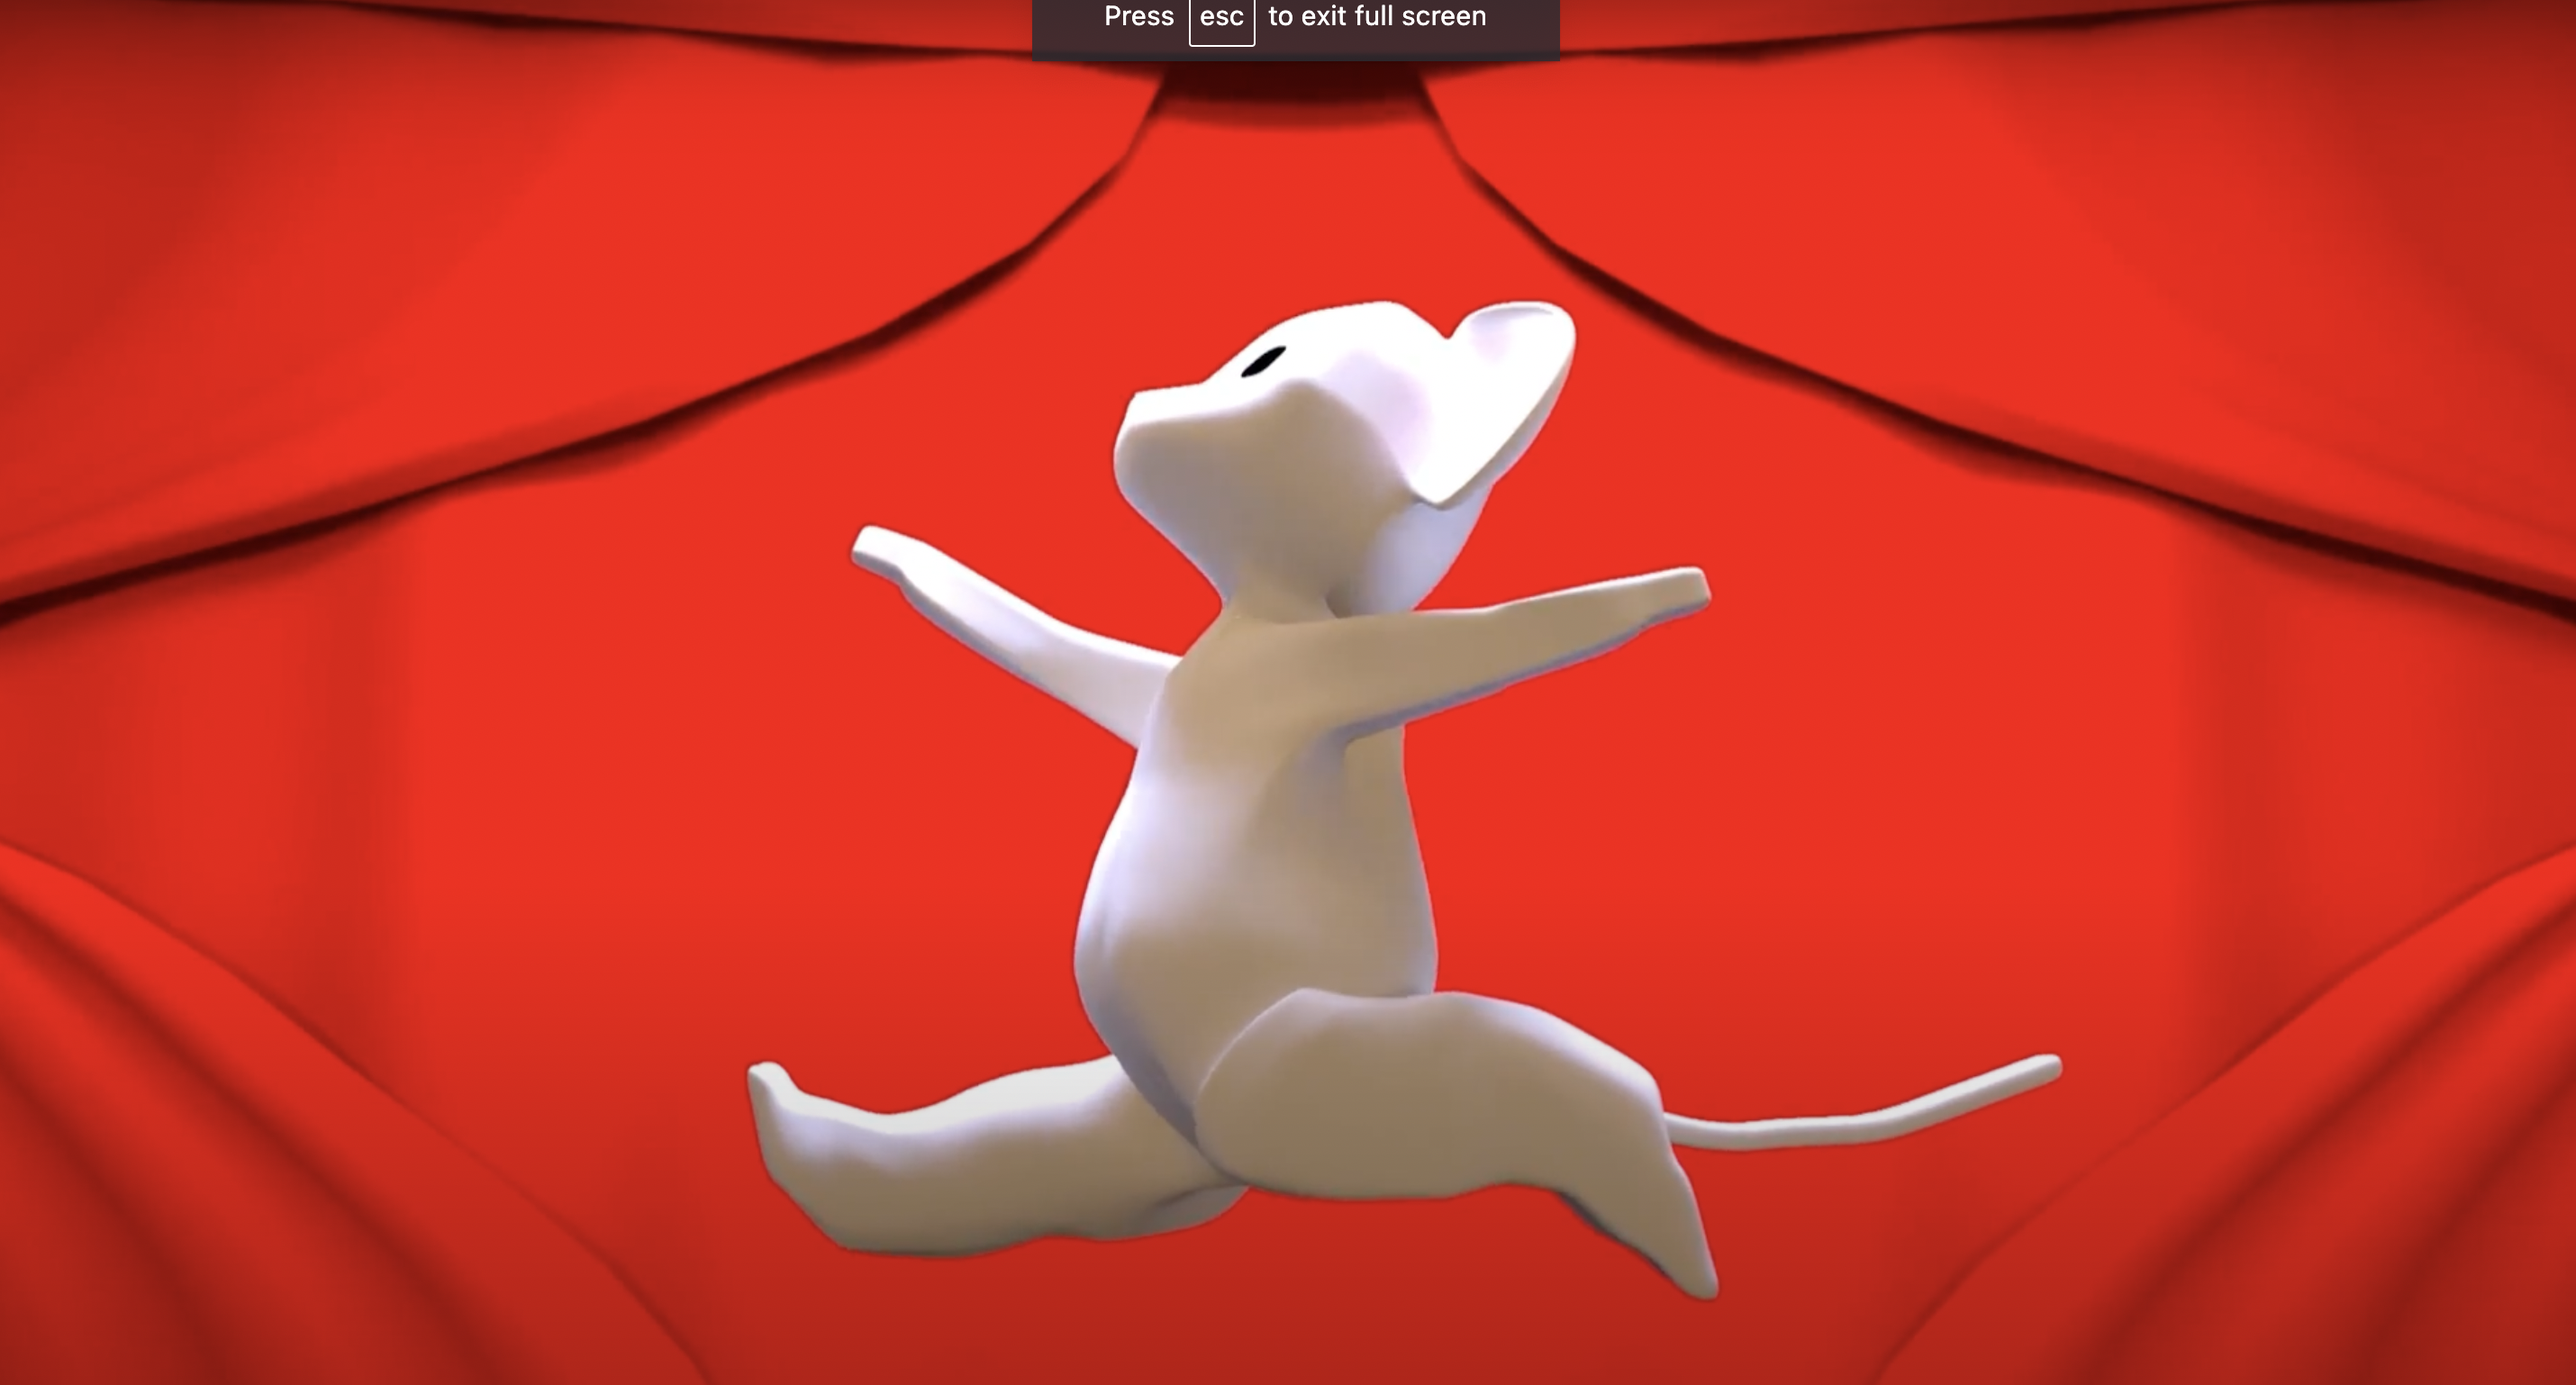
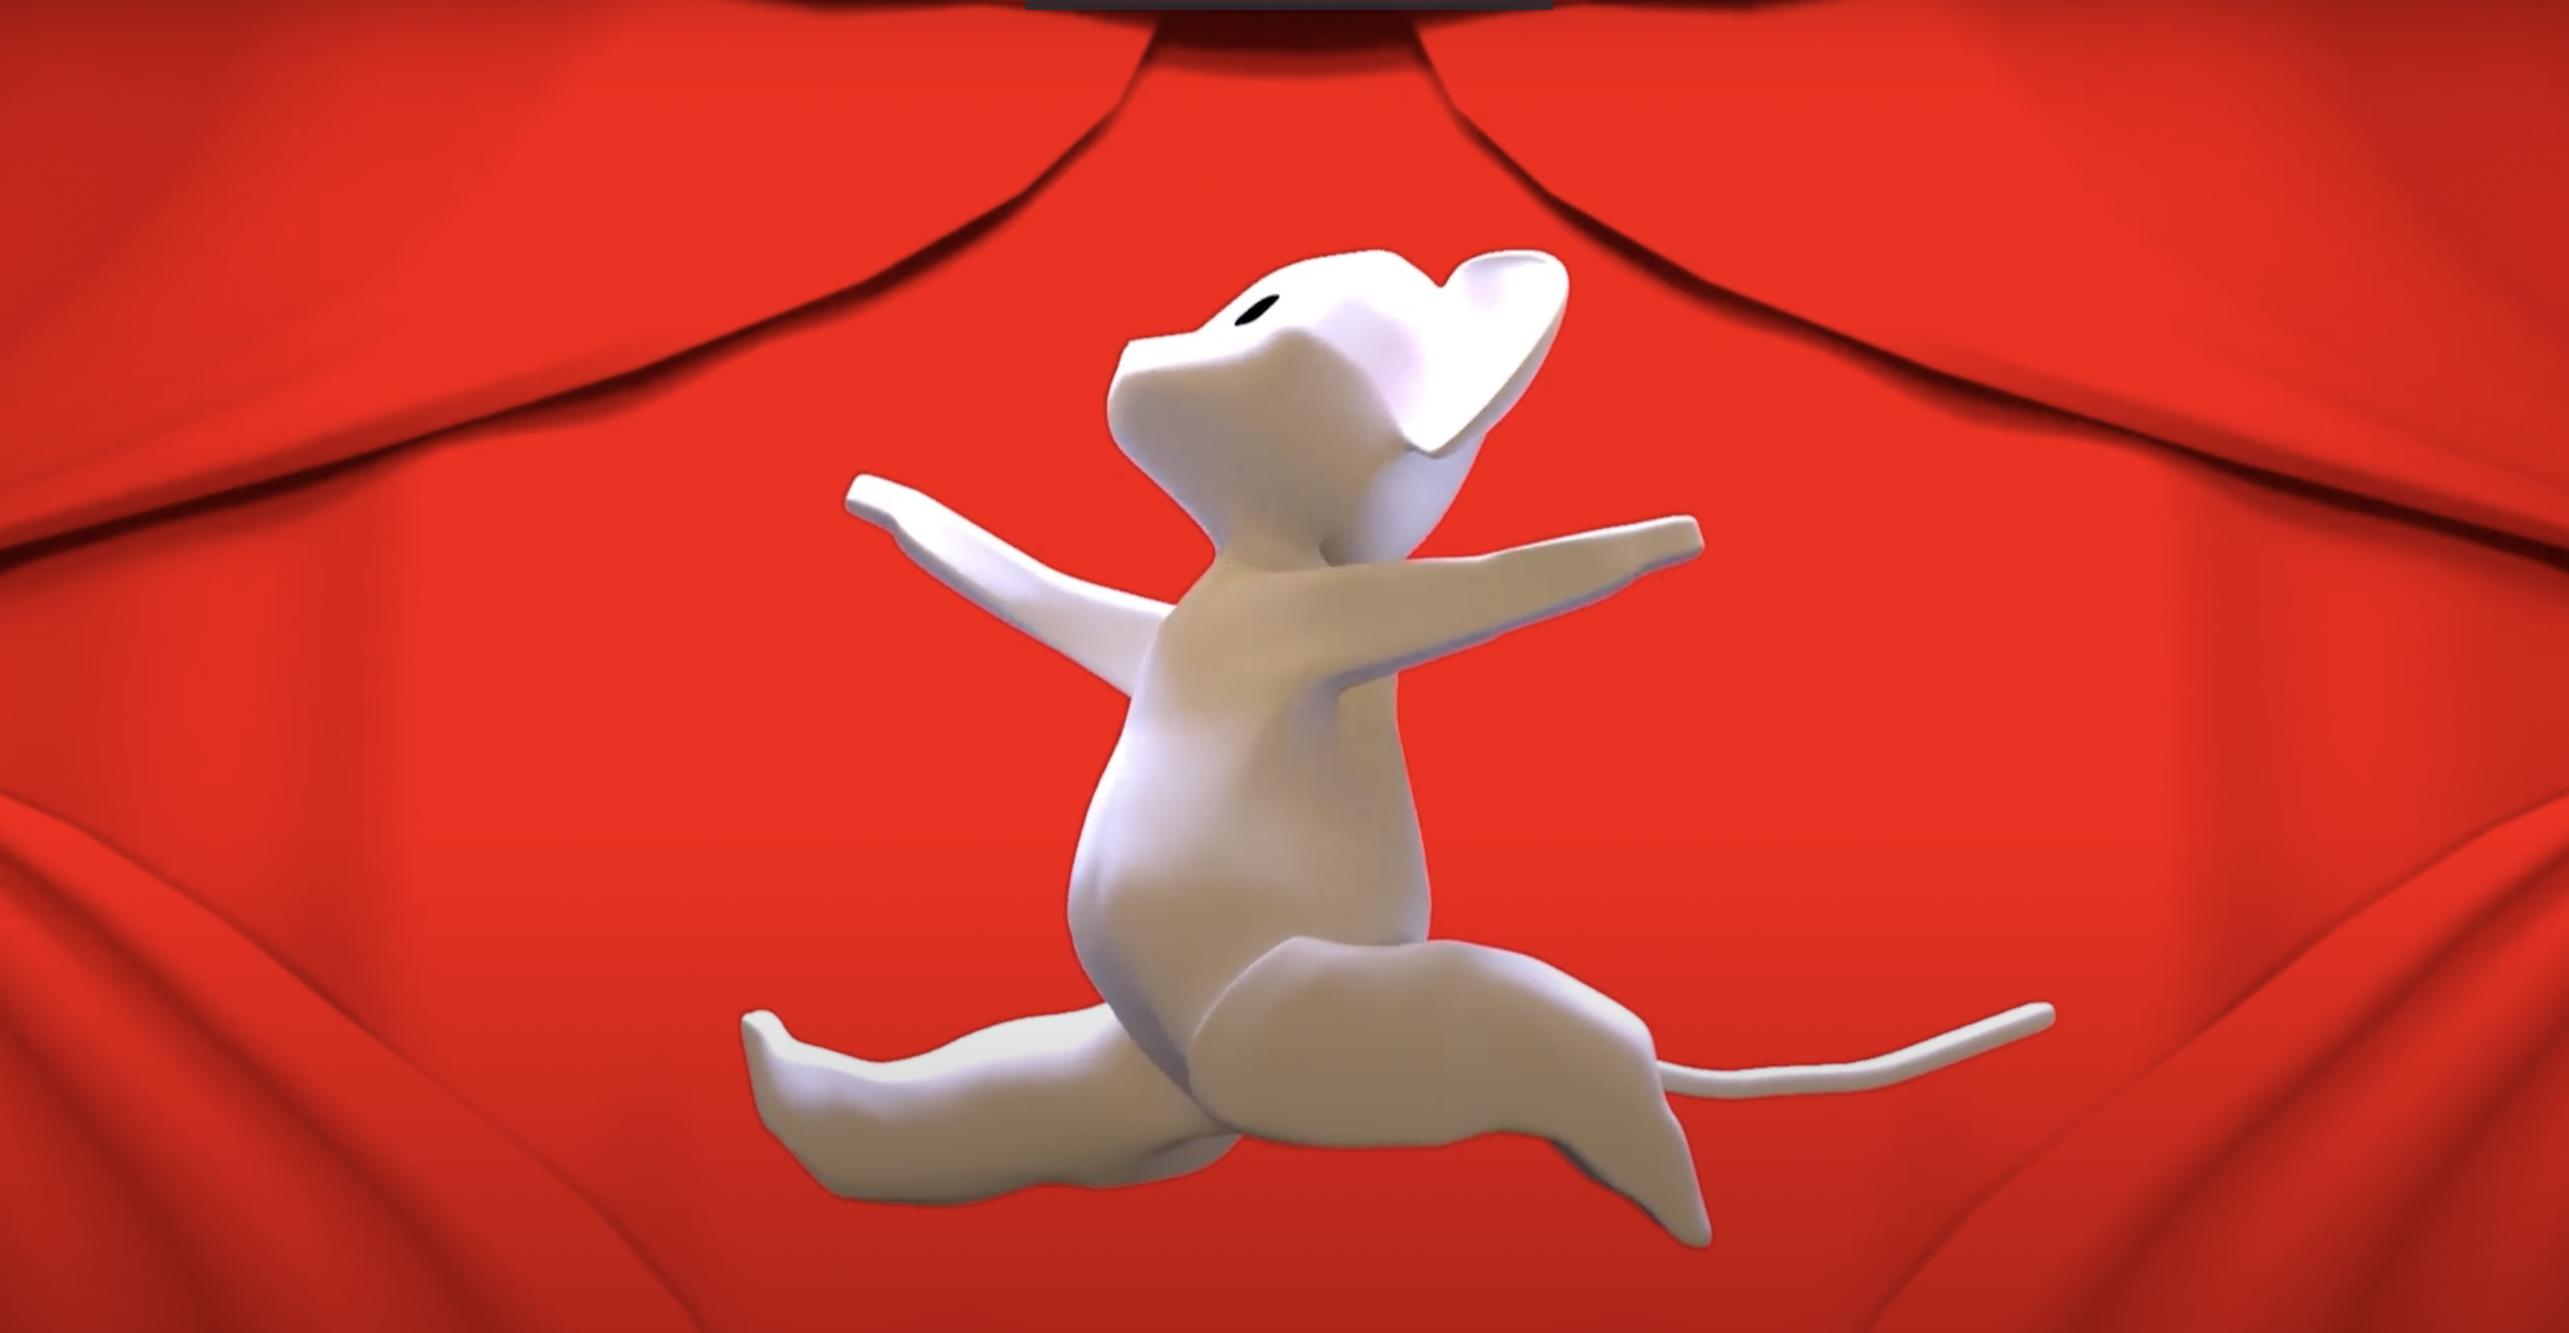
edited some pics and their placement

diff --git a/static/scripts/projects-processor.js b/static/scripts/projects-processor.js
@@ -2,13 +2,13 @@
 // must be number between 0 and 1
 var screenshots = {
 	"Omni.png": .5,
-	"restroom.png": 0.5,
-	"shootingSnail.png": 0.75,
-	"ThereYouAre.png": 0.5,
-	"WindUpMouse.png": 0.5,
-	"VRChase.png": 0.5,
-	"TheConductor.png": 0.5,
-	"Chopsticks.png": 0.5,
+	"restroom.png": .5,
+	"shootingSnail.png": .6,
+	"ThereYouAre.png": .5,
+	"WindUpMouse.png": .5,
+	"VRChase.png": .75,
+	"TheConductor.png": .75,
+	"Chopsticks.png": .5,
 	"2tailz.png": .5,
 	"dailycommute.png": .75,
 	"generousghost.png":.35,
